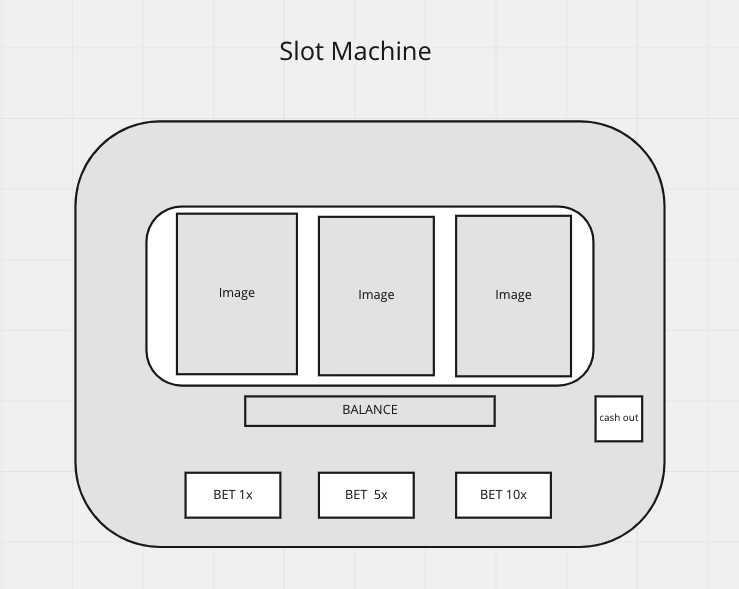
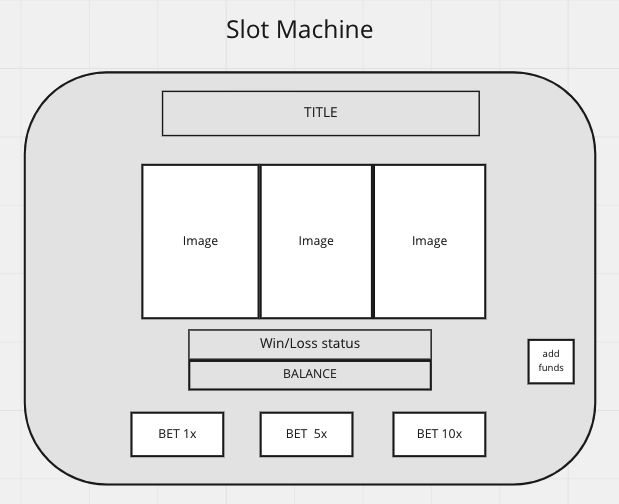
comments to code and Timeout functionality

diff --git a/index.js b/index.js
@@ -4,62 +4,103 @@ const betx50 = document.querySelector("#betx50")
 const betx100 = document.querySelector("#betx100")
 const addFunds = document.querySelector("#funds")
     // displays
-const balance = document.querySelector(".credits")
+const balance = document.querySelector(".balance")
 const displayStatus = document.querySelector(".status")
     // images for reels
 let imageOne = document.querySelector("#image-one")
 let imageTwo = document.querySelector("#image-two")
 let imageThree = document.querySelector("#image-three")
-
+    //starting funds/balance
 let funds = 0
     //array of images
 const images = [
     "/slot-machine-project/slotPic/turtle-shell.png",
+    "/slot-machine-project/slotPic/turtle-shell.png",
+    "/slot-machine-project/slotPic/turtle-shell.png",
+    "/slot-machine-project/slotPic/coin.png",
+    "/slot-machine-project/slotPic/coin.png",
     "/slot-machine-project/slotPic/coin.png",
     "/slot-machine-project/slotPic/mushroom.png",
+    "/slot-machine-project/slotPic/mushroom.png",
+    "/slot-machine-project/slotPic/mario.png",
     "/slot-machine-project/slotPic/mario.png",
     "/slot-machine-project/slotPic/star.png"
 ]
-
-    //spin the reels
-const slotReels = () => {
-        //resets css class to allow for re-animation
-        //from Chris Coyler   https://css-tricks.com/restart-css-animation/
-      //imageOne animation reset
-    imageOne.classList.remove("scale-in-ver-bottom")
-    void imageOne.offsetWidth;
-    imageOne.classList.add("scale-in-ver-bottom")
-      //imageTwo animation reset
-    imageTwo.classList.remove("scale-in-ver-bottom")
-    void imageOne.offsetWidth;
-    imageTwo.classList.add("scale-in-ver-bottom")
-      //imageThree animation reset
-    imageThree.classList.remove("scale-in-ver-bottom")
-    void imageOne.offsetWidth;
-    imageThree.classList.add("scale-in-ver-bottom")
-    //random image src from array 
-    imageOne.src = images[Math.floor(Math.random() * images.length)]
-    imageTwo.src = images[Math.floor(Math.random() * images.length)]
-    imageThree.src = images[Math.floor(Math.random() * images.length)]
+  //add funds button 
+addFunds.addEventListener("click", () => {
+    funds += 500
+    showBalance()
+})
+    //bet button events
+betx10.addEventListener("click", () =>{
+     wager(10)
+     buttonDelay()
+})
+betx50.addEventListener("click", () => {
+    wager(50)
+    buttonDelay()
+})
+betx100.addEventListener("click", () => {
+    wager(100)
+    buttonDelay()
+})
+    //disable and reinable buttons after a delay
+const buttonDelay = () => {
+    betx10.disabled = true
+    setTimeout( () => {betx10.disabled = false}, 900 )
+    betx50.disabled = true
+    setTimeout( () => {betx50.disabled = false}, 900 )
+    betx100.disabled = true
+    setTimeout( () => {betx100.disabled = false}, 900 )
 }
-
-    //show balance
-const showBalance = () => {
-    balance.innerHTML = `Balance: ${funds}`
-}
-
     //wager and spin if there are funds
 const wager = (bet) => {
     if ((funds - bet) < 0 ){
         displayStatus.innerHTML = `You Dont Have Enough Funds`
     } else {
         funds -= bet
-        slotReels()
-        matches(bet)
+        //reset status to emtpy
+        displayStatus.innerHTML = ""
+        slotReels()       
         showBalance()
+        setTimeout(() => {matches(bet)},700)
+        // matches(bet)
+        // showBalance()
     }
 }
-
+    //spin the reels
+const slotReels = () => {
+        //hide the images in the reels
+    imageOne.style.visibility = "hidden"
+    imageTwo.style.visibility = "hidden"
+    imageThree.style.visibility = "hidden"
+        //after a delay 
+    setTimeout(() => {
+            //change visibilty
+        imageOne.style.visibility = "visible"
+            //remove reset and add css class to allow re-animation 
+            //from Chris Coyler https://css-tricks.com/restart-css-animation/ 
+        imageOne.classList.remove("scale-in-ver-bottom")
+        void imageOne.offsetWidth;
+        imageOne.classList.add("scale-in-ver-bottom")
+            //random image
+        imageOne.src = images[Math.floor(Math.random() * images.length)]
+    },100)
+    setTimeout(() => {
+        imageTwo.style.visibility = "visible"
+        imageTwo.classList.remove("scale-in-ver-bottom")
+        void imageOne.offsetWidth;
+        imageTwo.classList.add("scale-in-ver-bottom")
+        imageTwo.src = images[Math.floor(Math.random() * images.length)]
+    },200)
+    setTimeout(() => {
+        imageThree.style.visibility = "visible"
+        imageThree.classList.remove("scale-in-ver-bottom")
+        void imageOne.offsetWidth;
+        imageThree.classList.add("scale-in-ver-bottom")
+        imageThree.src = images[Math.floor(Math.random() * images.length)]
+    },300)
+}
     //return values varry based on what images matched
 const matches = (bet) => {
     if (imageOne.src.includes("turtle") && imageTwo.src.includes("turtle") && imageThree.src.includes("turtle")){
@@ -80,23 +121,42 @@ const matches = (bet) => {
     } else {
         displayStatus.innerHTML = `You Lost ${bet}`
     }
+        //TRIAL
+    showBalance()
+}
+    //show balance
+const showBalance = () => {
+    balance.innerHTML = `Balance: ${funds}`
 }
 
-    //add funds button 
-addFunds.addEventListener("click", () => {
-    funds += 100
-    showBalance()
-    console.log(funds)
-})
 
-    //bet button events
-betx10.addEventListener("click", () =>{
-     wager(10)
-})
-betx50.addEventListener("click", () => {
-    wager(50)
-})
-betx100.addEventListener("click", () => {
-    wager(100)
-})
 
+
+
+
+
+
+
+
+
+
+// const slotReels = () => {
+//         //resets css class to allow for re-animation
+//         //from Chris Coyler   https://css-tricks.com/restart-css-animation/    
+//       //imageOne animation reset
+//     imageOne.classList.remove("scale-in-ver-bottom")
+//     void imageOne.offsetWidth;
+//     imageOne.classList.add("scale-in-ver-bottom")
+//       //imageTwo animation reset
+//     imageTwo.classList.remove("scale-in-ver-bottom")
+//     void imageOne.offsetWidth;
+//     imageTwo.classList.add("scale-in-ver-bottom")
+//       //imageThree animation reset
+//     imageThree.classList.remove("scale-in-ver-bottom")
+//     void imageOne.offsetWidth;
+//     imageThree.classList.add("scale-in-ver-bottom")
+//     //random image src from array 
+//     imageOne.src = images[Math.floor(Math.random() * images.length)]
+//     imageTwo.src = images[Math.floor(Math.random() * images.length)]
+//     imageThree.src = images[Math.floor(Math.random() * images.length)]
+// }

diff --git a/index.css b/index.css
@@ -18,6 +18,7 @@ body {
     grid-row-gap: 0px;
     border: solid black 2px;
     background-color: rgb(11, 140, 11);
+    border-radius: 20px;
     }
 .title { 
     grid-area: 1 / 2 / 2 / 5; 
@@ -53,7 +54,7 @@ body {
     align-items: center;
     justify-content: center;
 }
-.credits { 
+.balance { 
     grid-area: 3 / 2 / 4 / 5; 
     font-size: x-large;
     display: flex;
@@ -130,6 +131,9 @@ button:hover {
 }
 button:active {
     cursor:grabbing;
+}
+button:disabled {
+    color: black;
 }
 @media only screen and (max-width: 500px) {
     button {

diff --git a/index.html b/index.html
@@ -23,7 +23,7 @@
             <div class="reel-three"> 
                 <img id="image-three" class="scale-in-ver-bottom" src="/slot-machine-project/slotPic/coin.png"/>
             </div>
-            <div class="credits"> 
+            <div class="balance"> 
                 Balance: 0
             </div>
             <div class="status">
